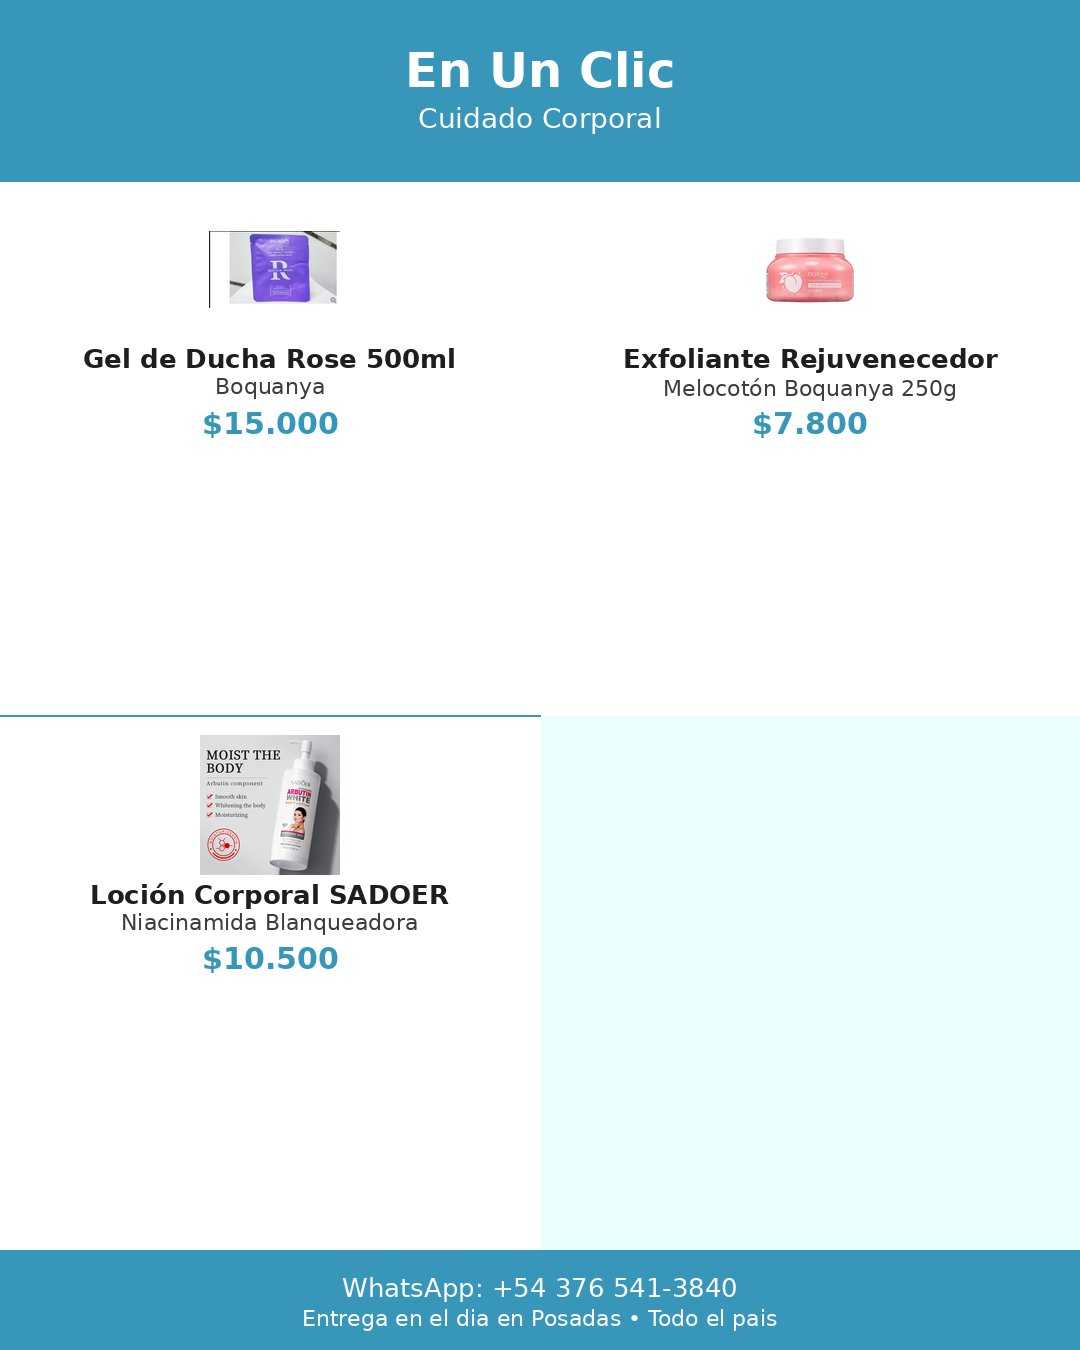
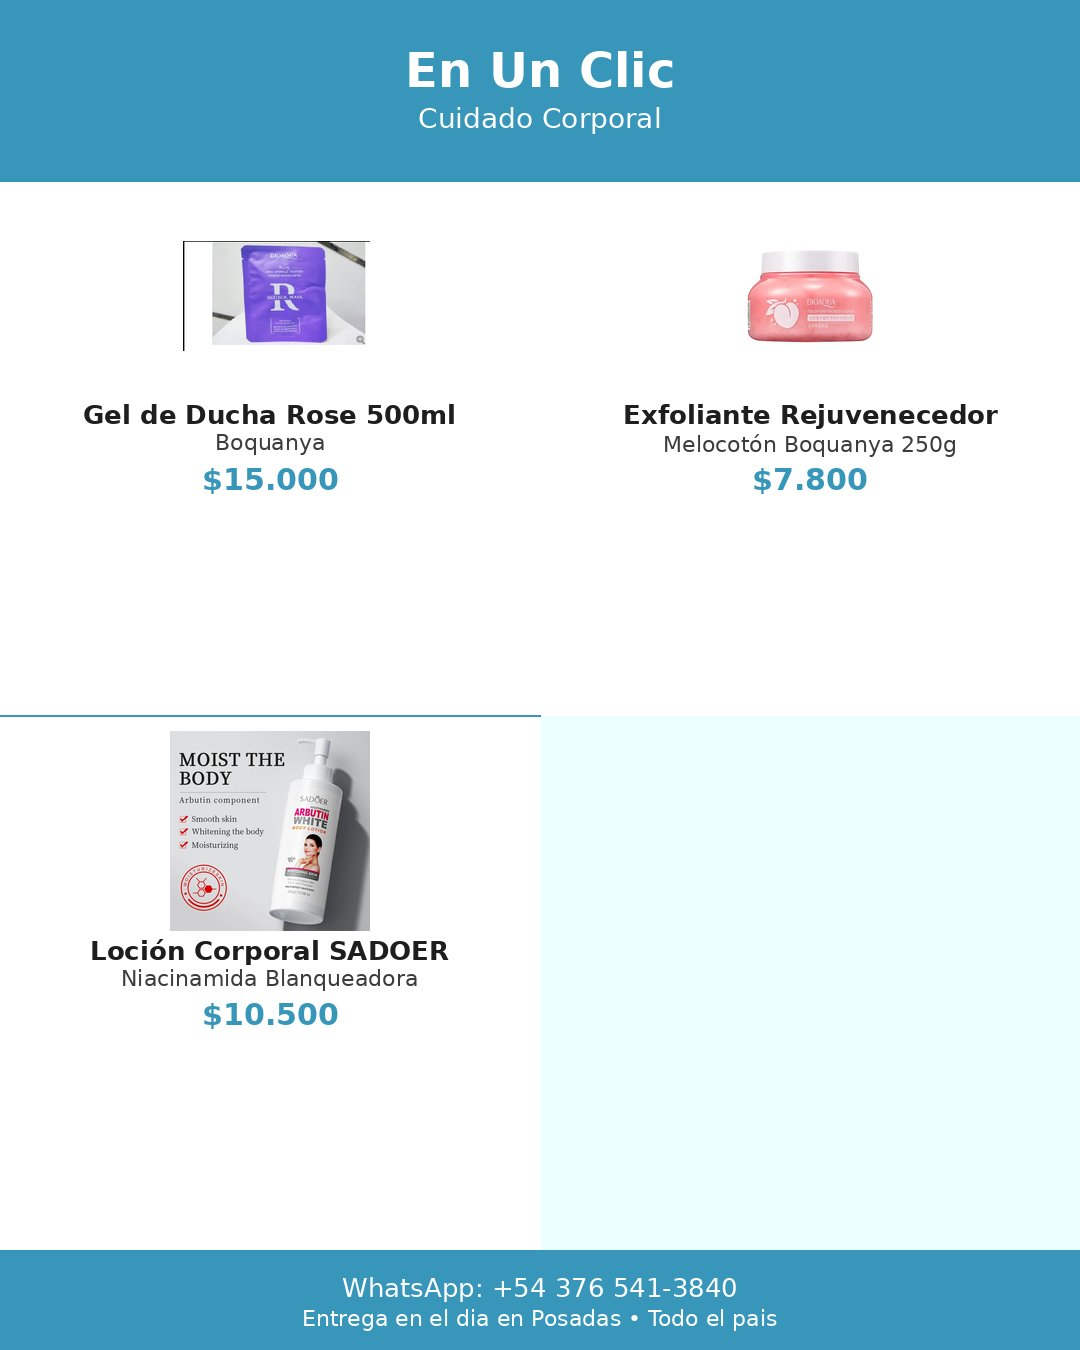
security: eliminar service_role key hardcodeada de generate_previews.py
La SUPABASE_KEY (service_role) estaba como valor por defecto en os.getenv().
Ahora solo se acepta via variable de entorno; sync_db() valida y falla con
mensaje claro si falta. Las credenciales NUNCA deben estar en el repo.

feat: fotos más grandes (140→200px cat, 150→220px combos) sin deformarse
fix: eliminar recuadro negro en product photos — fondo RGBA transparente
     convertido a RGB ahora usa blanco en lugar de negro como fill

Changed region(s): [[0.0917, 0.5289, 0.4278, 0.7778], [0.0611, 0.1556, 0.4278, 0.3733], [0.5806, 0.1556, 0.9167, 0.3733]]

diff --git a/generate_previews.py b/generate_previews.py
@@ -17,18 +17,20 @@ Comandos:
 
 Requiere:
   pip install Pillow
-  Variables de entorno: SUPABASE_URL, SUPABASE_KEY (service_role), TENANT_ID
-  O editá las constantes SUPABASE_URL/KEY/TENANT en este archivo.
+  Variables de entorno (requeridas para sync-db):
+    SUPABASE_URL   — URL del proyecto Supabase
+    SUPABASE_KEY   — service_role key (NUNCA commitear este valor)
+    TENANT_ID      — UUID del tenant en Botly
 
 """
 
 import os, sys, json, urllib.request
 from PIL import Image, ImageDraw, ImageFont
 
-# ── Config DB (sobreescribible con env vars) ──────────────────────────────────
-SUPABASE_URL = os.getenv("SUPABASE_URL", "https://wuwytnobxlzzyxhpmbbz.supabase.co")
-SUPABASE_KEY = os.getenv("SUPABASE_KEY", "REDACTED_SERVICE_ROLE_KEY")
-TENANT_ID    = os.getenv("TENANT_ID",    "51159fcf-0e35-4955-8b14-758bfa515b79")
+# ── Config DB — solo desde variables de entorno, nunca hardcodeado ────────────
+SUPABASE_URL = os.getenv("SUPABASE_URL", "")
+SUPABASE_KEY = os.getenv("SUPABASE_KEY", "")
+TENANT_ID    = os.getenv("TENANT_ID",    "")
 BASE_IMG_URL = "https://raw.githubusercontent.com/marcoslozina/en-un-clic-catalogs/main"
 
 # ── Paths ─────────────────────────────────────────────────────────────────────
@@ -242,6 +244,14 @@ def _supabase_req(method, path, body=None, extra_headers=None):
 
 def sync_db():
     """Upsert products a la DB usando SKU como clave única."""
+    missing = [v for v in ("SUPABASE_URL", "SUPABASE_KEY", "TENANT_ID") if not os.getenv(v)]
+    if missing:
+        print(f"  ✗ Faltan variables de entorno: {', '.join(missing)}")
+        print("    Exportalas antes de correr sync-db:")
+        for v in missing:
+            print(f"      export {v}=...")
+        sys.exit(1)
+
     rows = []
 
     # Combos
